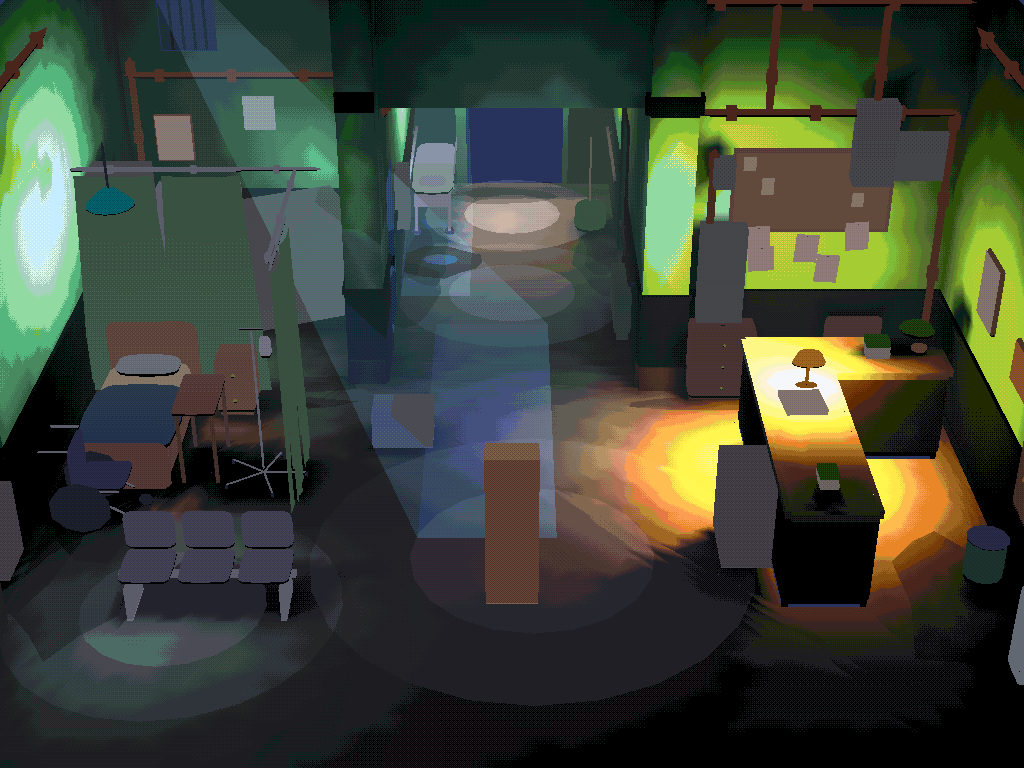
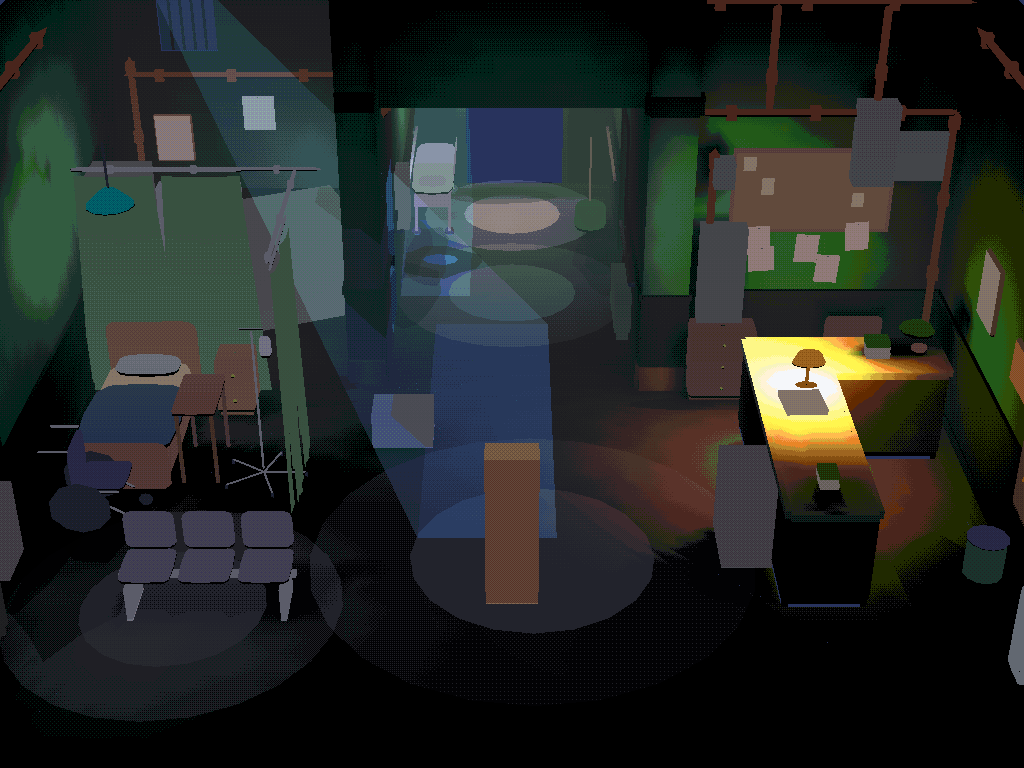
fix(clinic): the swatches keep their texture's own palette step; the source's 4.8 is a repeat, not a gain
Batch 1 lifted the floor, walls and ceiling four steps of their ramp, reading mat(color, texture, 4.8)
as a texture gain. It is the texture's repeat in metres, so the lift had no basis and made the walls
neon under the lamps. The hall frame is re-shot: the walls are dim and even, as the source's are.

Claude-Session: https://claude.ai/code/session_01HNdX7HCrsHWQKc3AGaH9mF

diff --git a/spikes/clinic/convert.ts b/spikes/clinic/convert.ts
@@ -151,7 +151,8 @@ const placed = (props.PROPS as Spec[]).map((spec) => {
 
 // --- swatches ----------------------------------------------------------------------------------------------------------
 // Each surface the clinic names, as the DUEL colour its texture is mostly made of (the source paints its tiles in DUEL
-// colours, so the dominant colour is an exact palette entry): a step of a ramp, as every AF swatch is.
+// colours, so the dominant colour is an exact palette entry): a step of a ramp, as every AF swatch is. No step is lifted: the
+// source's `mat(color, texture, 4.8)` is the texture's repeat in metres, not a gain.
 const DOMINANT: Record<string, string> = {
   floor: '#625d54',
   floorDim: '#5b5c69',
@@ -172,14 +173,10 @@ const DOMINANT: Record<string, string> = {
   glassNight: '#2d4b47',
   prop: '#73737f',
 }
-// The source lights its big surfaces with a texture gain (the floor's tint is 4.8 over its texture, the ceiling's 1.6), which
-// AF's flat swatches have no field for: those surfaces take a lighter step of their ramp instead, by LIFT steps.
-const LIFT = Number(process.env.LIFT ?? 4)
-const LIFTED = new Set(['floor', 'floorDim', 'plaster', 'plasterWarm', 'ceiling', 'ceilingTile', 'wainscot'])
 const swatches: Record<string, Json> = {}
 for (const [name, colour] of Object.entries(DOMINANT)) {
   const index = nearestDuel(colour)
-  const step = Math.min(7, (index % 8) + (LIFTED.has(name) ? LIFT : 0))
+  const step = index % 8
   swatches[name] = { ramp: DUEL_RAMP_NAMES[Math.floor(index / 8)], step, ...(name.startsWith('glass') ? { noCast: true } : {}) }
 }
 // The moon's glass glows, flat in any light.

diff --git a/packages/3d/tests/unit/world/clinic-level.test.ts b/packages/3d/tests/unit/world/clinic-level.test.ts
@@ -89,4 +89,12 @@ describe('the converted clinic', () => {
     ] as const)
       expect(hall.some((p) => p.id.split(':')[1] === role && p.surface === surface)).toBe(true)
   })
+  it("keeps each big surface at its texture's own palette step: the source has no gain to lift it", () => {
+    // `mat(color, texture, 4.8)` in the source is the texture's repeat in metres, not a gain. A lifted floor and wall made the
+    // walls neon under the room's lamps; the swatches' steps are the DUEL entries their textures are mostly made of.
+    const step = (name: string) => (library.swatches[name] as { step: number }).step
+    expect(step('floor')).toBe(0)
+    expect(step('plaster')).toBe(1)
+    expect(step('wainscot')).toBe(5)
+  })
 })

diff --git a/docs/refactor/clinic/README.md b/docs/refactor/clinic/README.md
@@ -35,9 +35,9 @@ world-kit pieces the clinic's dressing needs.
   the player as expected. The spike sets the same camera on both (50 mm, 30° down, the zone's distance, the look point at
   the zone's `look` or 1.1 m for a play frame, turned 45° for the turned frames), the way `eb-look` sets its gameplay
   camera. The cause is in `createPixi3dRenderer`'s camera path, which this work does not touch; it needs its owner.
-- **The room light is the source's, lifted**: a cool teal-grey ambient (0.25 here, the source's 0.15 left the flat swatches
-  nearly black) and the surfaces the source lights with a texture gain (floor 4.8, ceiling 1.6) take a lighter step of
-  their DUEL ramp (`LIFT`, 4 steps) in place of the gain, which AF's swatches have no field for.
+- **The room light is the source's**: a cool teal-grey ambient (0.25 here, the source's 0.15) and a low cool fill. Batch 1 lifted
+  the floor, walls and ceiling four steps of their ramp, reading `mat(color, texture, 4.8)` as a texture gain; it is the
+  texture's repeat in metres, so the lift was removed in batch 2 (it made the walls neon under the lamps).
 - **Ada is a 1.62 m box** at the baseline spots; her figure is batch 2.
 - **The supply door and the pieces of `dressClinic`** (curtains, pipes, the exit door and its sign, the CRT, puddles, moon
   shafts, light pools, grime) are batch 2's world-kit pieces. The frames are rough until then.
